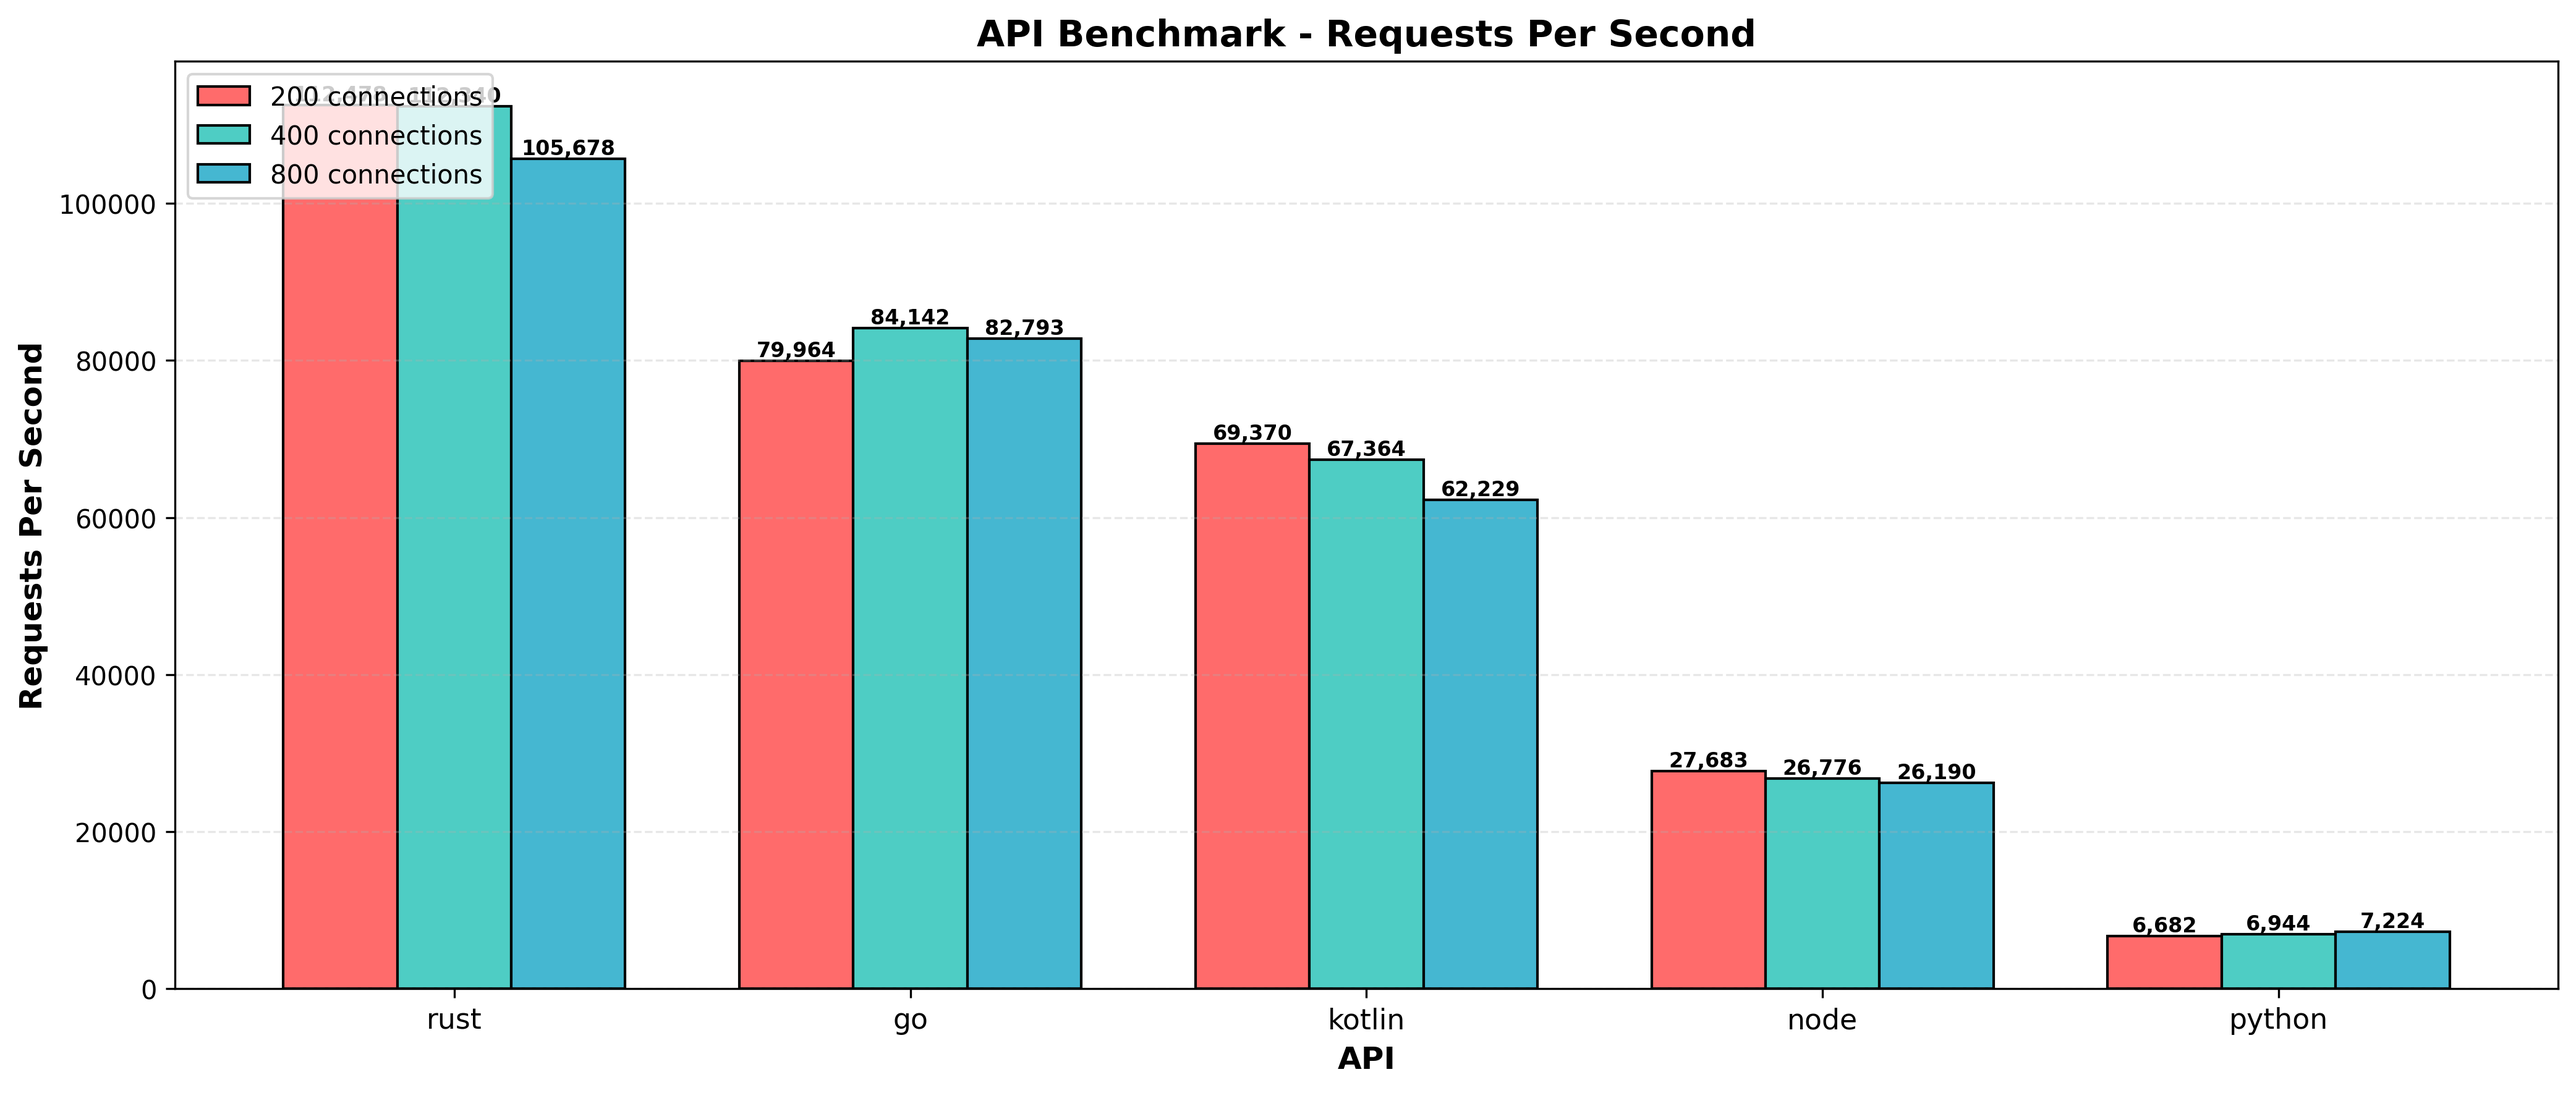
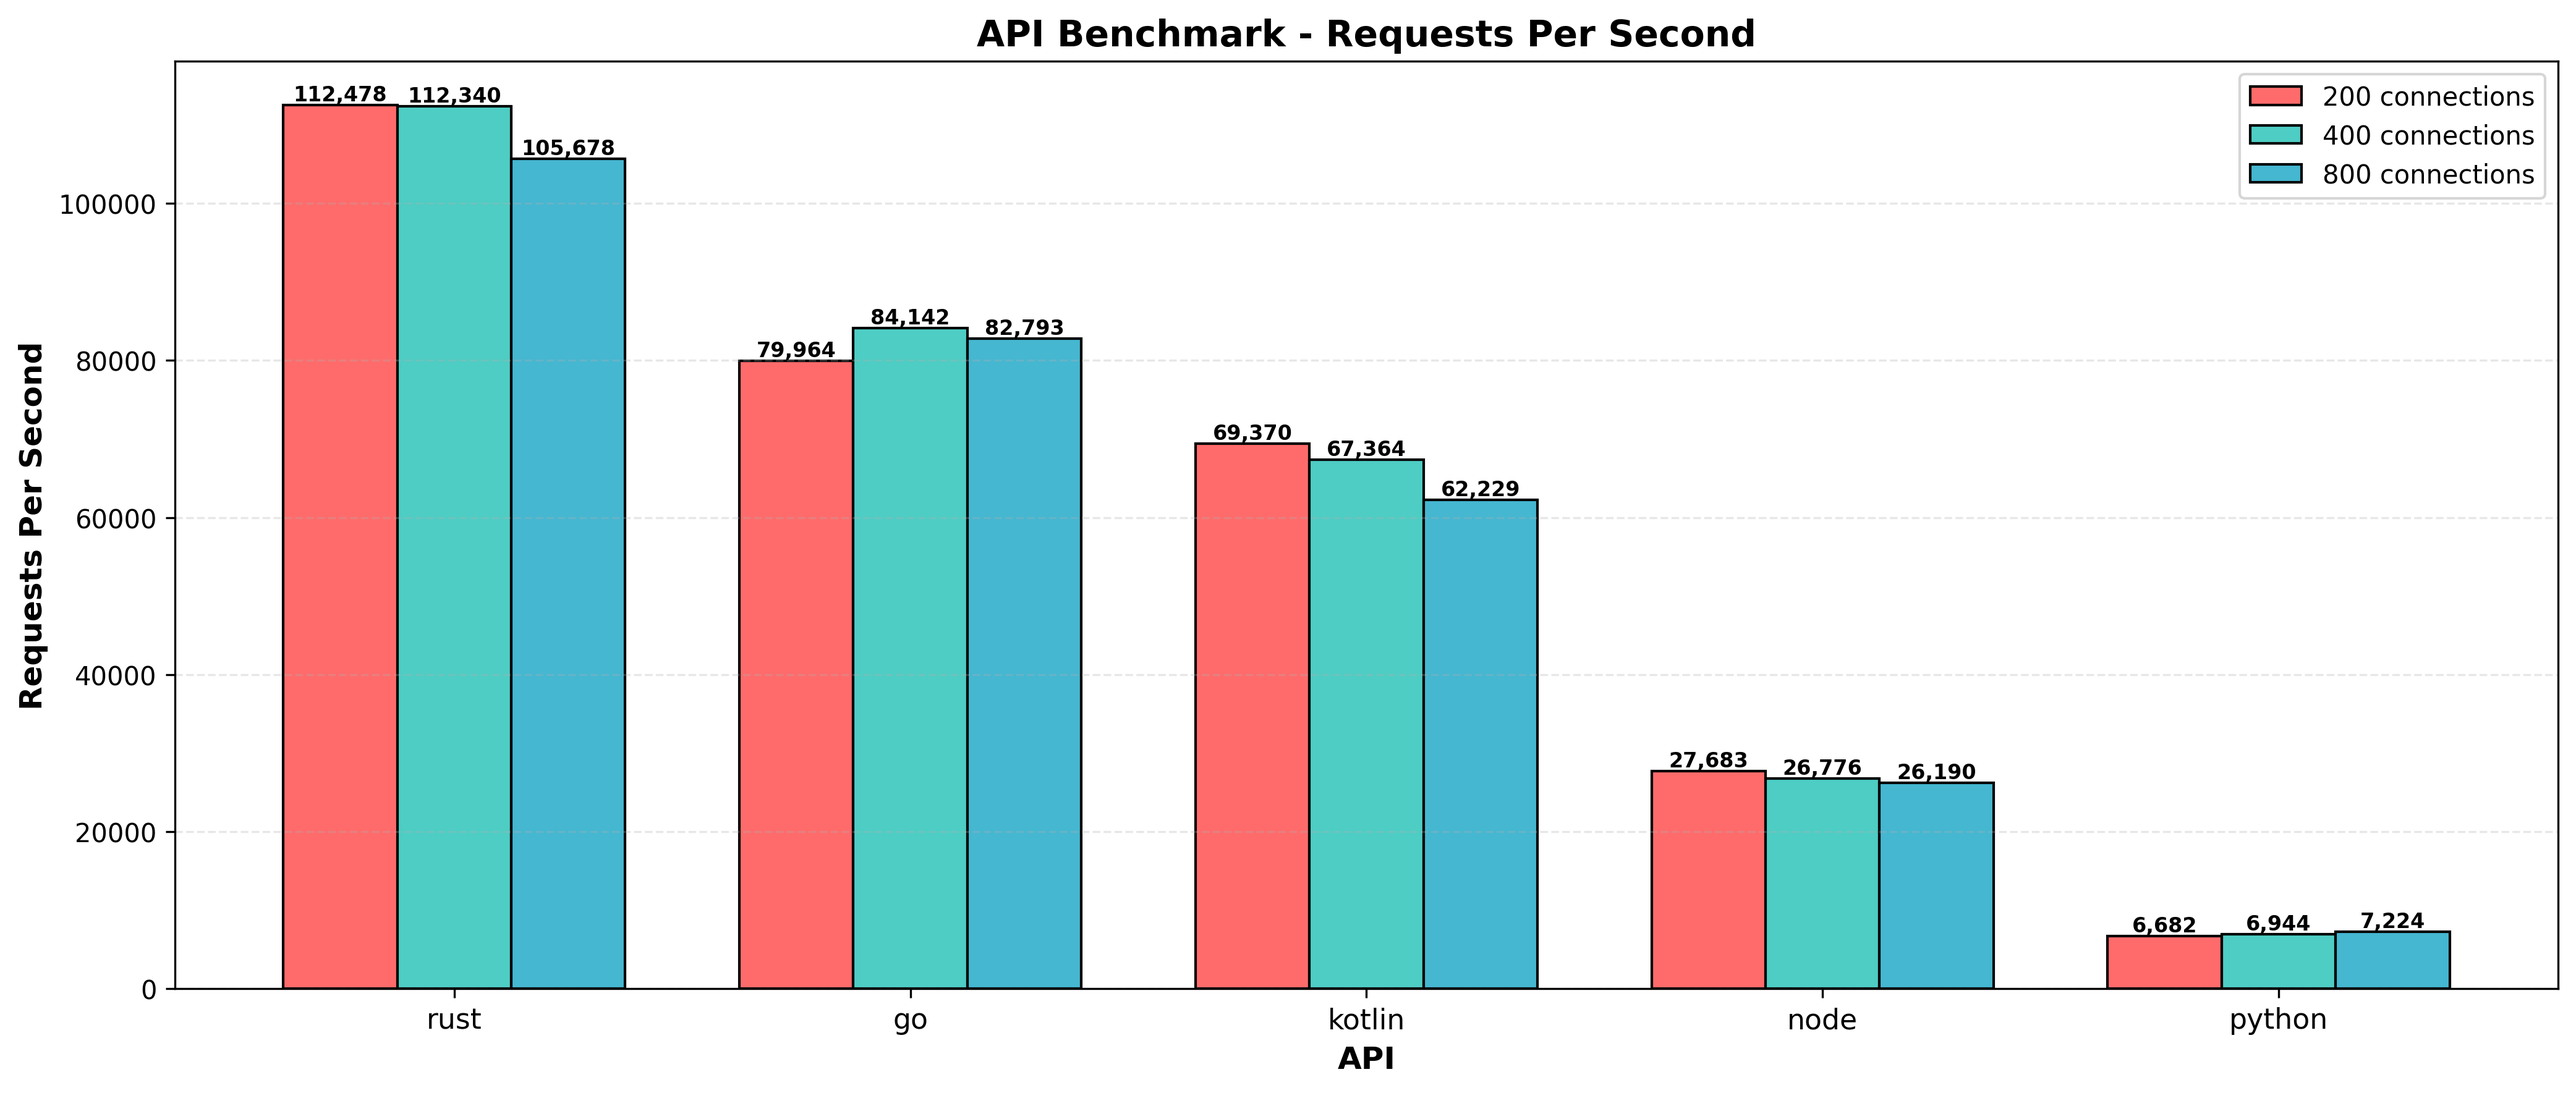
move RPS legend to top right.

Changed region(s): [[0.0624, 0.0622, 0.2184, 0.1865], [0.8735, 0.0622, 0.9983, 0.1865]]

diff --git a/generate-graphs.py b/generate-graphs.py
@@ -118,7 +118,7 @@ def generate_rps_graph(results, output_file):
     ax.set_title('API Benchmark - Requests Per Second', fontsize=14, fontweight='bold')
     ax.set_xticks(x)
     ax.set_xticklabels(apis, fontsize=11)
-    ax.legend(fontsize=10, loc='upper left')
+    ax.legend(fontsize=10, loc='upper right')
     ax.grid(axis='y', alpha=0.3, linestyle='--')
     
     plt.tight_layout()
